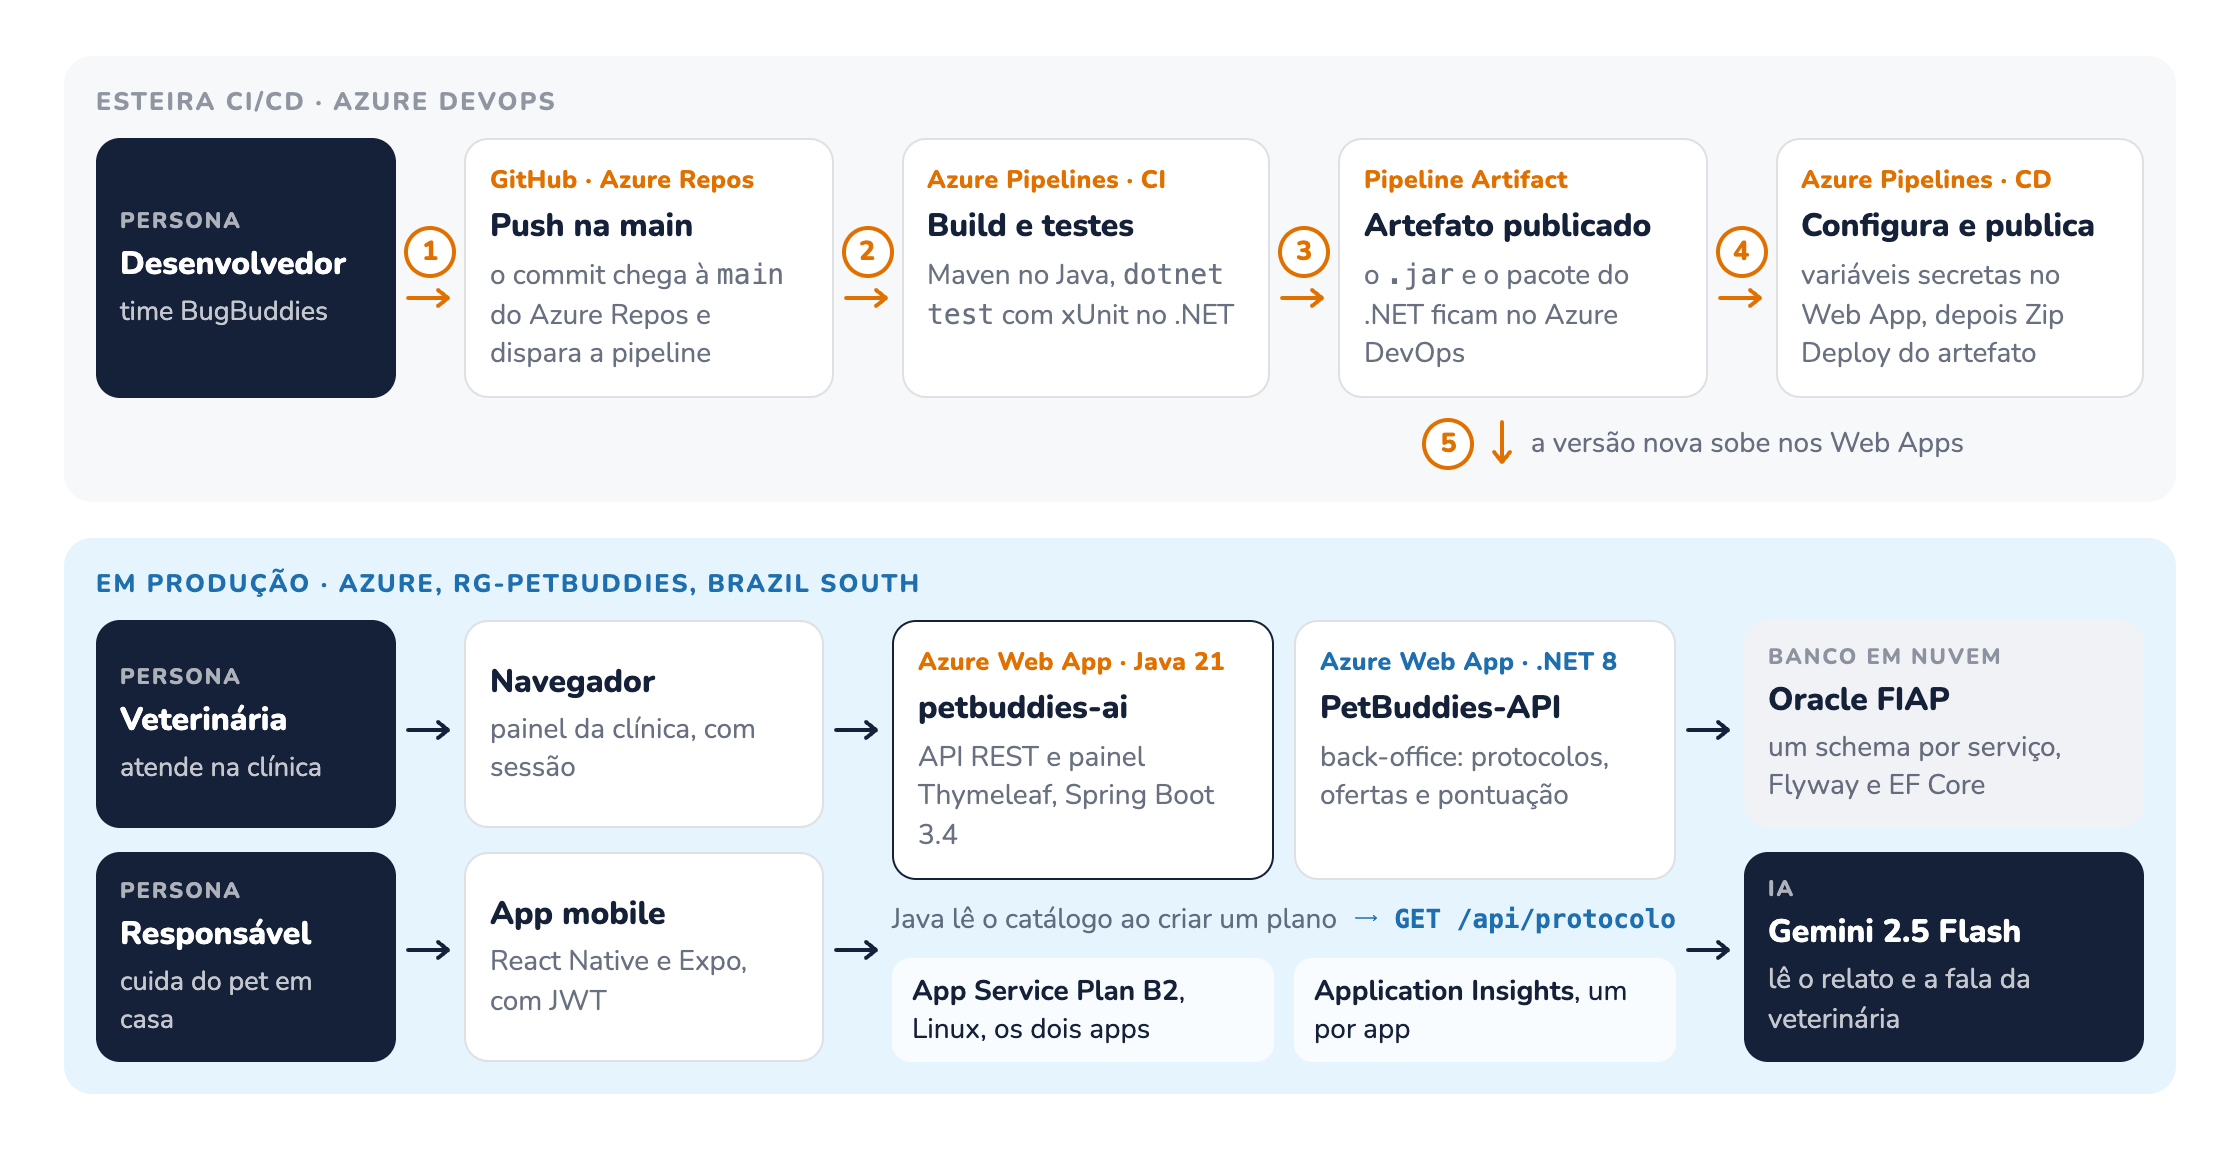
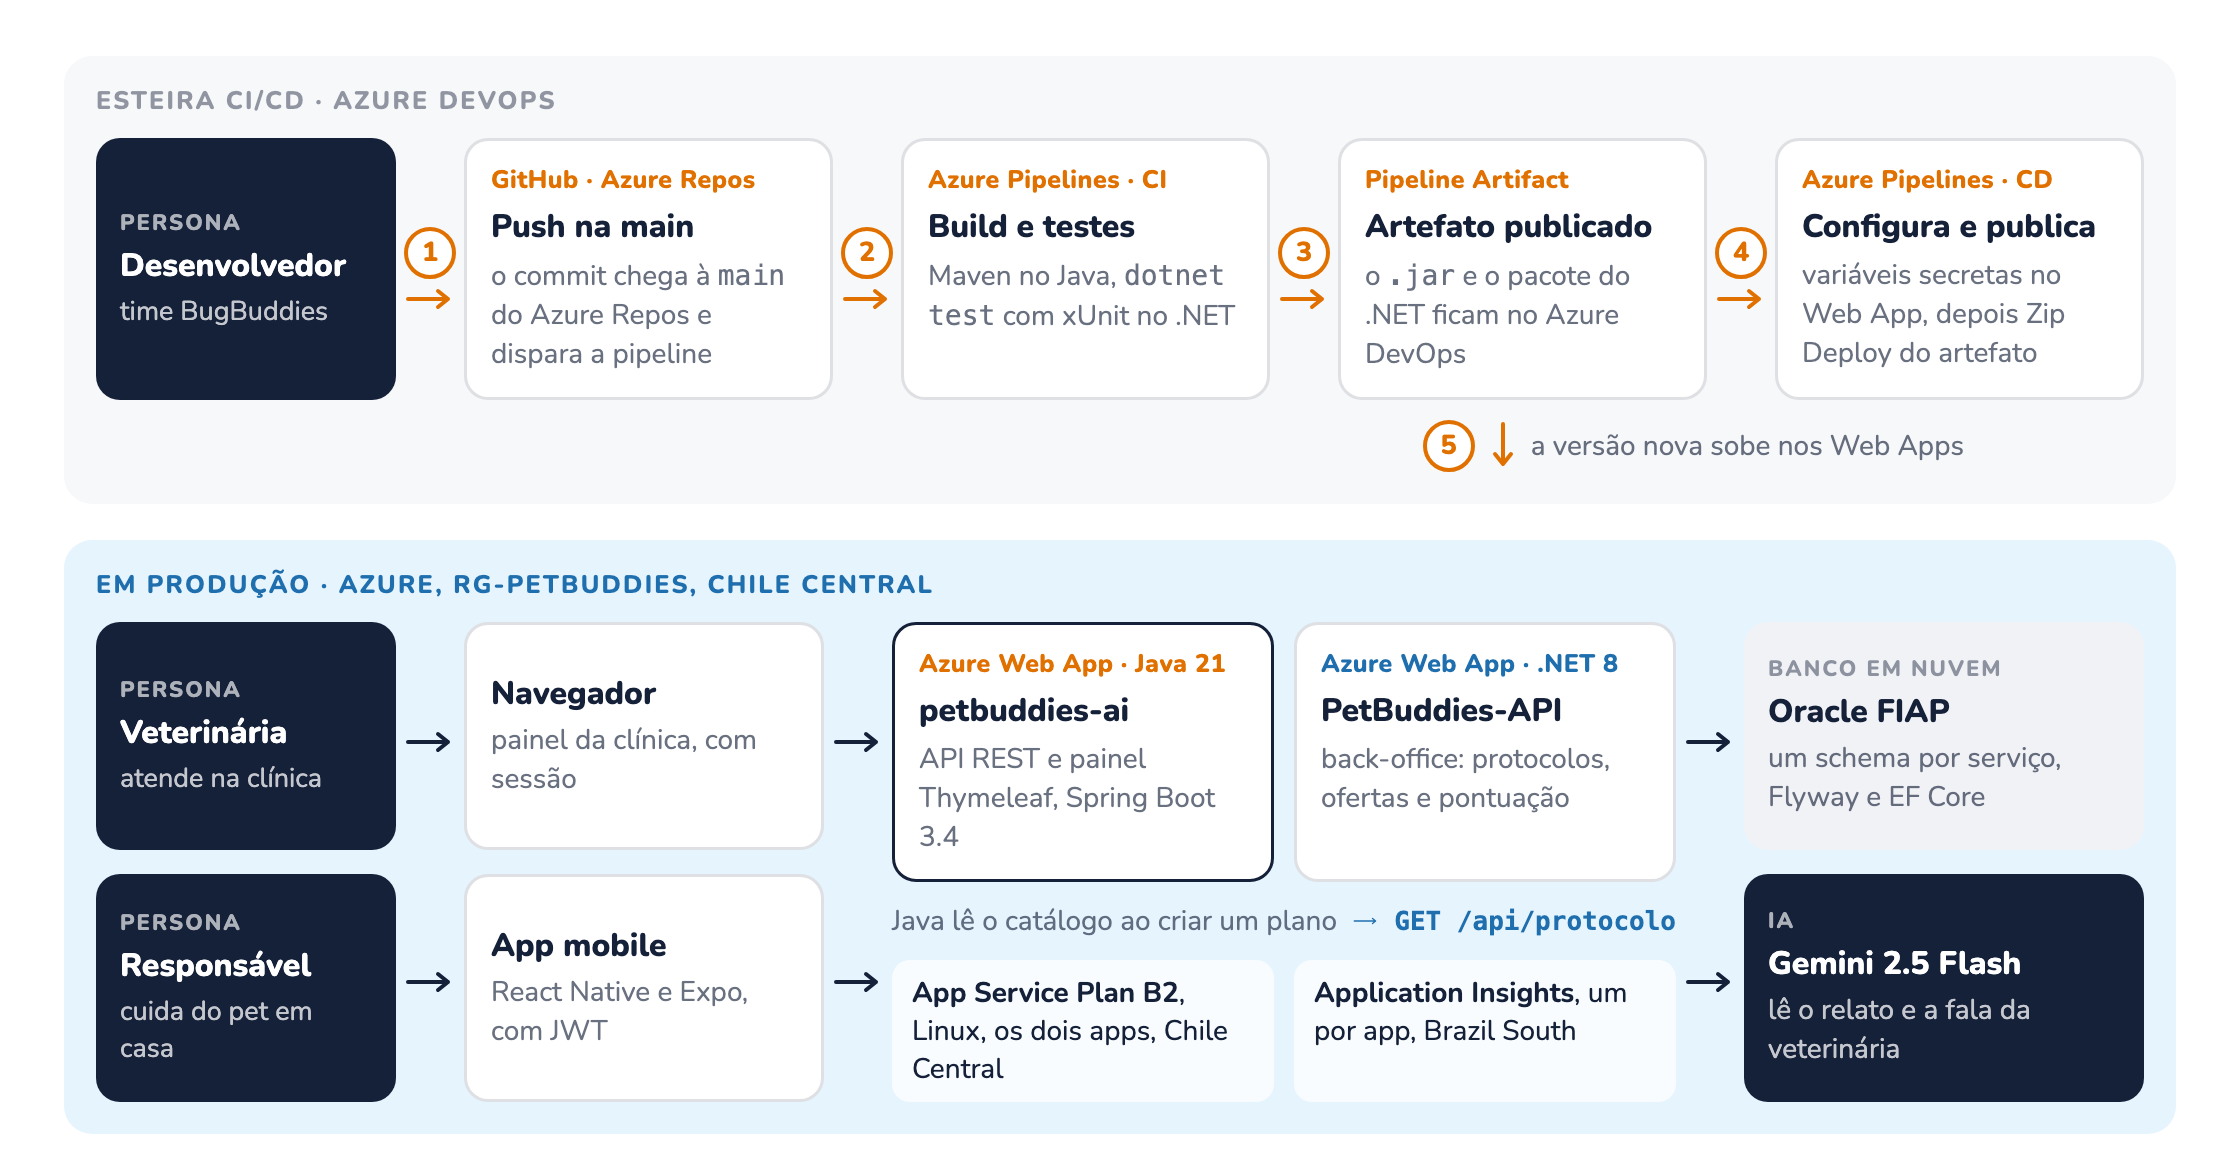
docs(readme): produção do Java em Chile Central e script de infra com as regiões novas

diff --git a/README.md b/README.md
@@ -37,9 +37,9 @@ A veterinária atende, prescreve e monta o plano de cuidado pelo painel da clín
 
 |                               | |
 |-------------------------------|---|
-| Painel da clínica (produção)  | https://petbuddies-java-rm563925.azurewebsites.net |
-| Swagger UI (produção)         | https://petbuddies-java-rm563925.azurewebsites.net/swagger-ui.html |
-| Saúde (produção)              | https://petbuddies-java-rm563925.azurewebsites.net/actuator/health |
+| Painel da clínica (produção)  | https://petbuddies-java-cl-rm563925.azurewebsites.net |
+| Swagger UI (produção)         | https://petbuddies-java-cl-rm563925.azurewebsites.net/swagger-ui.html |
+| Saúde (produção)              | https://petbuddies-java-cl-rm563925.azurewebsites.net/actuator/health |
 | Azure DevOps                  | [PetBuddies - Sprint 4 – Azure DevOps](https://dev.azure.com/RM565834/PetBuddies%20-%20Sprint%204%20%E2%80%93%20Azure%20DevOps) |
 | Swagger UI (local)            | `http://localhost:8080/swagger-ui.html` |
 | Postman collection            | [`docs/postman/petbuddies-ai-java.postman_collection.json`](docs/postman/petbuddies-ai-java.postman_collection.json) |
@@ -88,7 +88,7 @@ A veterinária atende, prescreve e monta o plano de cuidado pelo painel da clín
 - **Spring HATEOAS** — respostas em `EntityModel`/`CollectionModel`, com assemblers dedicados
 - **Spring Boot Actuator** — só o `health` exposto
 - **Bean Validation** (Jakarta) · **Springdoc OpenAPI 2.8.8** · **Lombok**
-- **Azure** — Web App Linux (Java 21) no plano B2, Application Insights e Oracle FIAP
+- **Azure** — Web App Linux (Java 21) no plano B2 em Chile Central, Application Insights e Oracle FIAP
 - **Azure DevOps** — Azure Repos e Azure Pipelines em YAML (`azure-pipelines.yml`)
 
 ---
@@ -187,7 +187,7 @@ Todas em `.env.example`; `.env` está no `.gitignore`.
 
 ## Deploy e CI/CD
 
-A aplicação roda num **Azure Web App** Linux com Java 21, no grupo `rg-petbuddies` (Brazil South), sobre o banco **Oracle da FIAP**. O deploy é feito pelo **Azure Pipelines**, a partir do repositório no **Azure Repos** do projeto [PetBuddies - Sprint 4 – Azure DevOps](https://dev.azure.com/RM565834/PetBuddies%20-%20Sprint%204%20%E2%80%93%20Azure%20DevOps).
+A aplicação roda num **Azure Web App** Linux com Java 21 (`petbuddies-java-cl-rm563925`), no plano `plan-petbuddies-alt` (B2, Chile Central) do grupo `rg-petbuddies`, sobre o banco **Oracle da FIAP**. O deploy é feito pelo **Azure Pipelines**, a partir do repositório no **Azure Repos** do projeto [PetBuddies - Sprint 4 – Azure DevOps](https://dev.azure.com/RM565834/PetBuddies%20-%20Sprint%204%20%E2%80%93%20Azure%20DevOps).
 
 A pipeline está em [`azure-pipelines.yml`](azure-pipelines.yml) e **dispara sozinha a cada push na `main`**. A figura do topo mostra a esteira numerada.
 
@@ -198,7 +198,7 @@ A pipeline está em [`azure-pipelines.yml`](azure-pipelines.yml) e **dispara soz
 
 **Segredos:** usuário e senha do Oracle, chave do Gemini e segredo do JWT ficam como **variáveis secretas da pipeline**. Não aparecem no YAML nem no log, e o CD os grava como configuração do Web App.
 
-**Monitoramento:** cada Web App tem um Application Insights, e `GET /actuator/health` responde `UP` com o banco no ar.
+**Monitoramento:** cada Web App tem um Application Insights (em Brazil South), e `GET /actuator/health` responde `UP` com o banco no ar.
 
 ---
 
@@ -517,7 +517,7 @@ Na ordem abaixo, com o usuário `VET` de demonstração:
 
 ### Via Swagger UI
 
-Em produção, `https://petbuddies-java-rm563925.azurewebsites.net/swagger-ui.html`; local, `http://localhost:8080/swagger-ui.html`. Endpoints por tag de domínio, com "Authorize" e Try it out. O JSON do OpenAPI fica em **`/api-docs`**, não em `/v3/api-docs`.
+Em produção, `https://petbuddies-java-cl-rm563925.azurewebsites.net/swagger-ui.html`; local, `http://localhost:8080/swagger-ui.html`. Endpoints por tag de domínio, com "Authorize" e Try it out. O JSON do OpenAPI fica em **`/api-docs`**, não em `/v3/api-docs`.
 
 ### Via Postman
 
